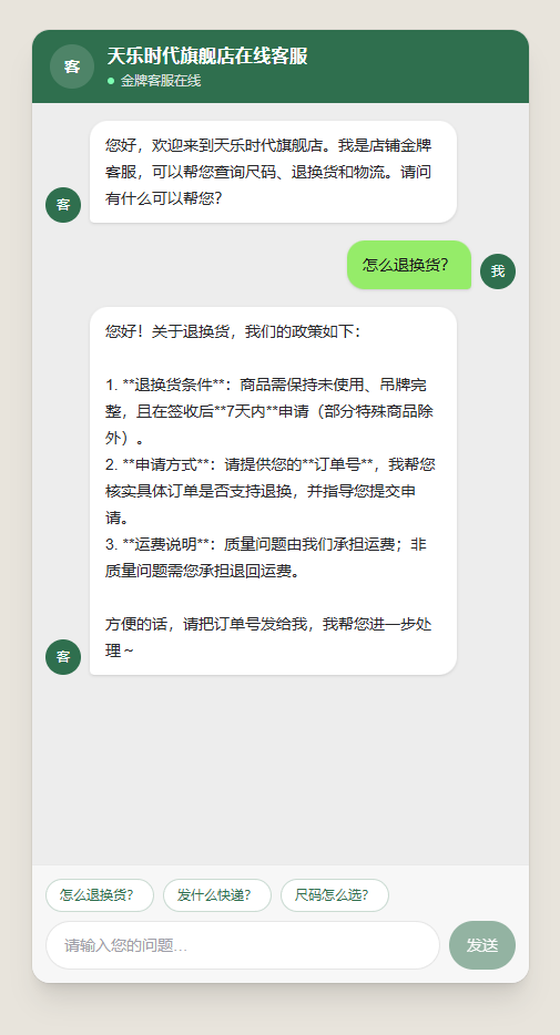
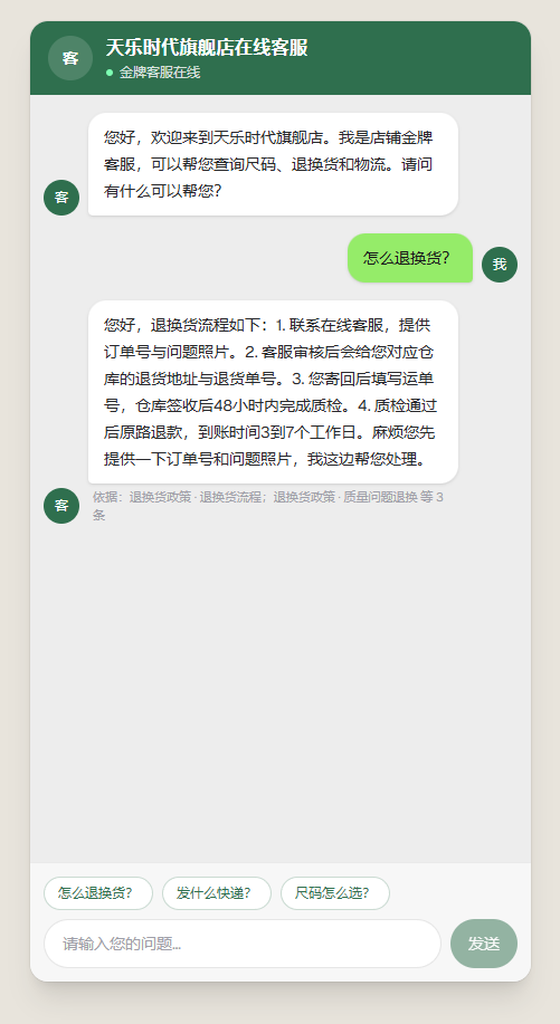
feat: title-weighted BM25 retrieval with traceable sources

diff --git a/app/api/chat/route.ts b/app/api/chat/route.ts
@@ -27,7 +27,8 @@ function lastUserText(messages: ChatUIMessage[]): string {
  * 同时产出 metadata，供前端展示「依据」，便于定位是检索错还是生成错。
  */
 function buildPrompt(query: string): { system: string; metadata: MessageMetadata } {
-  const retrieval = searchKnowledge(query, 4);
+  // 不传 topK，使用检索层默认值（3 条），避免这里和默认值不同步
+  const retrieval = searchKnowledge(query);
 
   if (!retrieval.grounded) {
     console.log(`[knowledge] 未命中，转人工 | query="${query}" | top=${retrieval.topScore.toFixed(2)}`);
@@ -58,7 +59,8 @@ ${context}
 1. 只能依据上述参考资料作答，不得编造价格、时效、政策、库存。
 2. 参考资料未覆盖的信息，不要猜测，改为${REQUIRED_HANDOFF}。
 3. 不要提及「参考资料」「文档」「资料」等字眼，直接以客服口吻回答。
-4. 涉及具体型号时，型号字母与尺码必须与资料完全一致，不得改写。`,
+4. 涉及具体型号时，型号字母与尺码必须与资料完全一致，不得改写。
+5. 只回答用户本次问到的部分，不要把资料里其他条款一并罗列；回答控制在 5 句话以内。`,
     metadata: {
       grounded: true,
       sources: retrieval.hits.map((hit) => ({

diff --git a/app/page.tsx b/app/page.tsx
@@ -25,11 +25,12 @@ function SourceNote({ metadata }: { metadata?: MessageMetadata }) {
     );
   }
 
-  const label = metadata.sources
-    .map((source) => `${source.docTitle} · ${source.section}`)
-    .join("；");
+  // 只展示前两条：完整列表在悬停提示里，避免小字占三行抢视觉
+  const shown = metadata.sources.slice(0, 2);
+  const label = shown.map((source) => `${source.docTitle} · ${source.section}`).join("；");
+  const suffix = metadata.sources.length > shown.length ? ` 等 ${metadata.sources.length} 条` : "";
 
-  // 悬停可看到 chunk id 与分数，方便定位具体命中了哪一段
+  // 悬停可看到全部 chunk id 与分数，方便定位具体命中了哪一段
   const detail = metadata.sources
     .map((source) => `${source.id}（score ${source.score}）`)
     .join("\n");
@@ -37,6 +38,7 @@ function SourceNote({ metadata }: { metadata?: MessageMetadata }) {
   return (
     <p className="mt-1 px-1 text-[11px] leading-4 text-zinc-400" title={detail}>
       依据：{label}
+      {suffix}
     </p>
   );
 }

diff --git a/lib/knowledge/scorer.ts b/lib/knowledge/scorer.ts
@@ -97,8 +97,12 @@ export function contentTerms(text: string): string[] {
 
 function buildEntries(chunks: Chunk[]): Entry[] {
   return chunks.map((chunk) => {
-    // 标题与小节名一并入索引：用户常直接问章节名，如「退换货政策」
-    const terms = tokenize(`${chunk.docTitle} ${chunk.section} ${chunk.text}`);
+    // 标题与小节名做 2 倍加权：用户常直接问章节名（「退换货流程」「尺码怎么选」），
+    // 标题命中的信号比正文里顺带提一句更可靠
+    const titleTerms = tokenize(`${chunk.docTitle} ${chunk.section}`);
+    const bodyTerms = tokenize(chunk.text);
+    const terms = [...titleTerms, ...titleTerms, ...bodyTerms];
+
     const tf = new Map<string, number>();
     for (const term of terms) tf.set(term, (tf.get(term) ?? 0) + 1);
     return { chunk, tf, len: terms.length };

diff --git a/lib/knowledge/retrieve.ts b/lib/knowledge/retrieve.ts
@@ -34,7 +34,10 @@ export type Retrieval = {
   topCoverage: number;
 };
 
-export function searchKnowledge(query: string, topK = 4): Retrieval {
+/** 默认只取 3 条：客服回答不需要 4 段资料，多一条就多一分噪声与成本 */
+const DEFAULT_TOP_K = 3;
+
+export function searchKnowledge(query: string, topK = DEFAULT_TOP_K): Retrieval {
   const hits = search(query, topK);
   const topScore = hits[0]?.score ?? 0;
   const topCoverage = hits[0]?.coverage ?? 0;

diff --git a/data/knowledge/01-退换货政策.md b/data/knowledge/01-退换货政策.md
@@ -18,7 +18,7 @@
 - 申请时需提供开箱视频或清晰破损照片，客服在 24 小时内审核。
 - 超过 30 天按保修处理，主机保修 6 个月。
 
-## 退货流程
+## 退换货流程
 
 1. 联系在线客服，提供订单号与问题照片。
 2. 客服审核后给出对应仓库的退货地址与退货单号。
